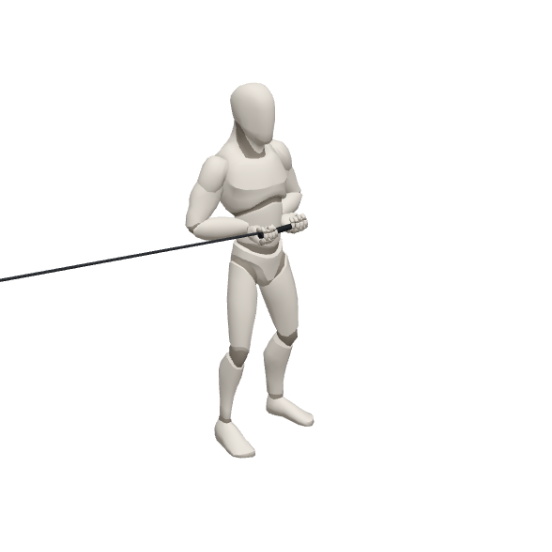
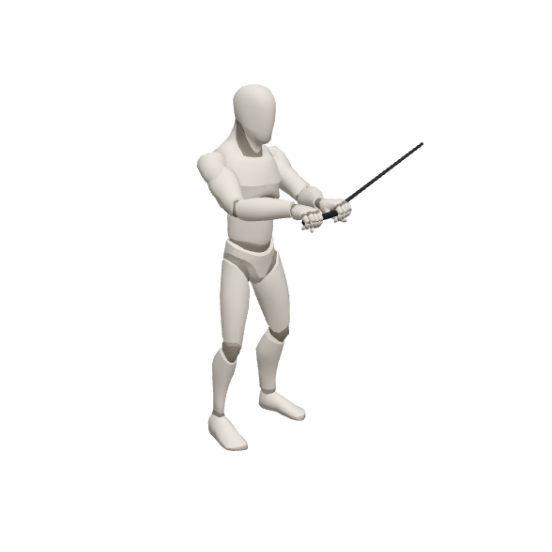
El press Pallof se entiende, y el recorte de alcance deja de callar
El Pallof es difícil de enseñar: el cuerpo casi no se mueve, que es justo de lo que va. Cuatro
cambios y ahora se lee:

- El anclaje pasa al lado contrario de la cámara: el cable cruza el fondo en vez de venirse encima.
- El agarre sube del ombligo al esternón y el recorrido pasa de 23 a 33 cm, hasta donde da el brazo.
- El cable engorda de 6 a 9 mm. A 6 parecía un pelo, y el ejercicio, alguien sujetando un palo.
- La ficha se abre en vista frontal, que es donde se ve lo que importa: el cable tirando de lado y
  el cuerpo aguantando. La extensión de los brazos se ve cambiando a "de lado".

Y el cartel sale del punto que el movimiento elija, no siempre del primer fotograma: el del Pallof
—manos pegadas al pecho— es indistinguible de estar de pie. Es un campo nuevo, `cartel.fase`, que le
vale a cualquier movimiento cuyo inicio no cuente nada.

EL RECORTE DE ALCANCE YA AVISA. Acercar el objetivo en silencio cuando el implemento queda lejos era
una trampa: después la mano sí llega a donde se le pide, así que ninguna comprobación veía nada y el
maniquí soltaba la barra a mitad de recorrido. Es lo que pasó con el jalón —20,8 cm en 46 de 48
fotogramas— y solo se vio mirando. Ahora es un aviso del validador, y cazó al vuelo que el press
Pallof se pasaba medio centímetro al estirar los brazos.

Claude-Session: https://claude.ai/code/session_01XMvXWrcLVocq7tcBrDXEzd

diff --git a/src/figura/visor.ts b/src/figura/visor.ts
@@ -23,6 +23,10 @@ export function vistasDe(mov: Movimiento): Vista[] {
 }
 
 export interface Movimiento {
+  /* En qué punto del ciclo se le ve mejor, para la imagen fija del catálogo. Por defecto el
+     principio, que es lo que vale para casi todos; pero hay movimientos cuyo primer fotograma no
+     dice nada —el press Pallof empieza con las manos pegadas al pecho, igual que estar de pie—. */
+  cartel?: { fase?: number };
   duracion: number;
   camara: { vista: Vista; detalle?: string; proporcion?: string };
   implementos?: Record<string, { tipo: string; [k: string]: unknown }>;
@@ -355,7 +359,9 @@ function crearImplemento(def: { tipo: string; [k: string]: unknown }): THREE.Obj
         g.add(punta);
       }
     }
-    const cable = new THREE.Mesh(new THREE.CylinderGeometry(0.006, 0.006, 1, 8), material(COLOR.metal, 0.4, 0.6));
+    /* 9 mm y no 6: a 6 el cable se veía como un pelo y el press Pallof parecía alguien sujetando un
+       palo. Un cable de gimnasio es grueso de verdad, y aquí además tiene que contar algo. */
+    const cable = new THREE.Mesh(new THREE.CylinderGeometry(0.009, 0.009, 1, 8), material(COLOR.metal, 0.4, 0.6));
     cable.name = 'cable';
     g.add(cable);
   } else if (def.tipo === 'mancuerna') {

diff --git a/src/figura/cinematica.js b/src/figura/cinematica.js
@@ -457,7 +457,16 @@ function posarBrazo(esq, pose, l, Ftorax, implementos, anotar, avisos) {
          */
         const alcance = (longitudes.brazo + longitudes.antebrazo) * 0.999;
         const desdeHombro = objetivo.clone().sub(raiz);
-        if (desdeHombro.length() > alcance) objetivo.copy(raiz).addScaledVector(desdeHombro.normalize(), alcance);
+        if (desdeHombro.length() > alcance) {
+          /*
+           * Y AVISA. Acercar el objetivo en silencio es lo que convirtió esto en una trampa: como
+           * después la mano SÍ llega a donde se le pide, el validador no veía nada y el maniquí
+           * soltaba la barra a mitad de recorrido sin que ninguna comprobación dijese ni mu. Pasó
+           * con el jalón —20,8 cm fuera de alcance en 46 fotogramas de 48— y solo se vio mirando.
+           */
+          avisos.push({ tipo: 'recorte', miembro: 'mano', lado: l, falta: desdeHombro.length() - alcance });
+          objetivo.copy(raiz).addScaledVector(desdeHombro.normalize(), alcance);
+        }
         r = resolver(objetivo);
       }
     }

diff --git a/src/figura/ficha.ts b/src/figura/ficha.ts
@@ -137,7 +137,8 @@ export async function montarFigura(
 
   let velocidad = 1;
   let pausado = cartel;
-  let fase = 0;
+  // El cartel se saca del punto que el movimiento diga, no siempre del principio.
+  let fase = cartel ? (mov.cartel?.fase ?? 0) : 0;
   let claveAnterior: string | undefined;
   let anterior = performance.now();
   let animacion = 0;
